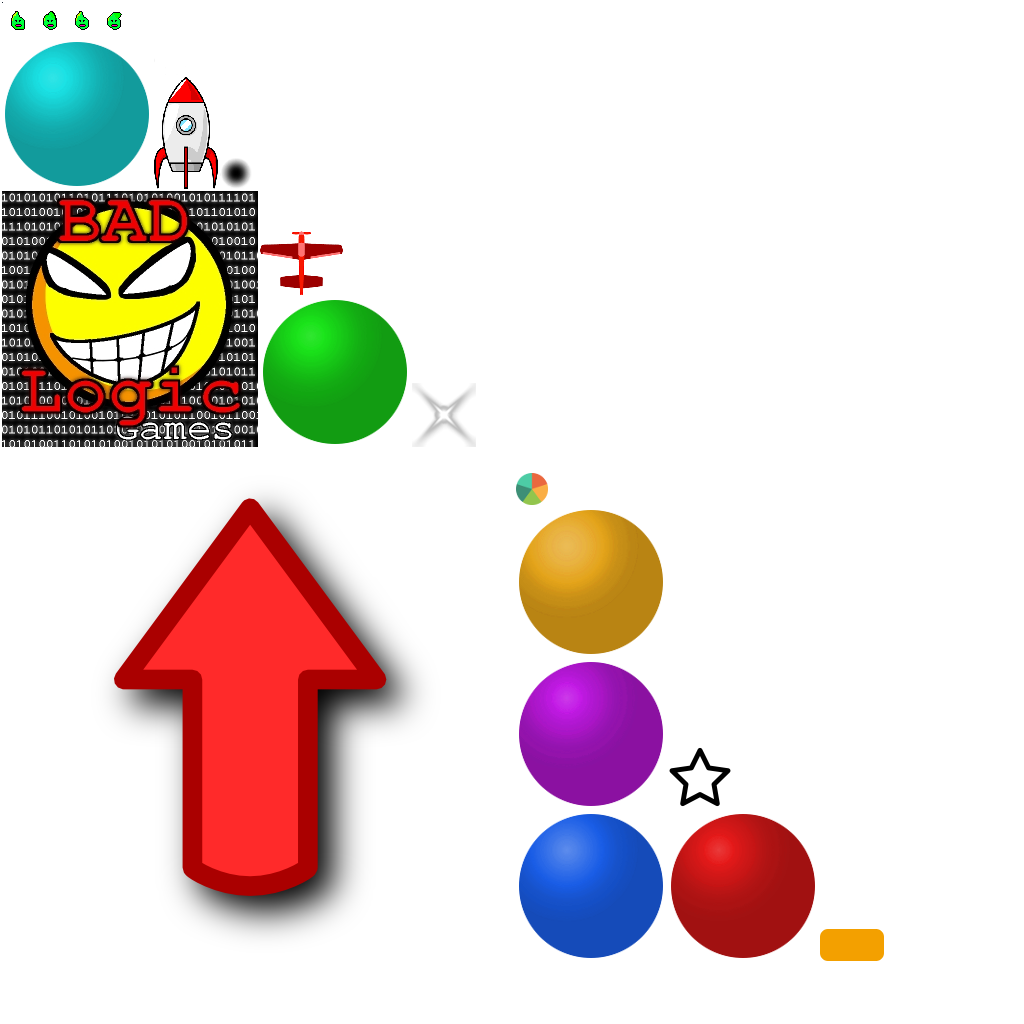
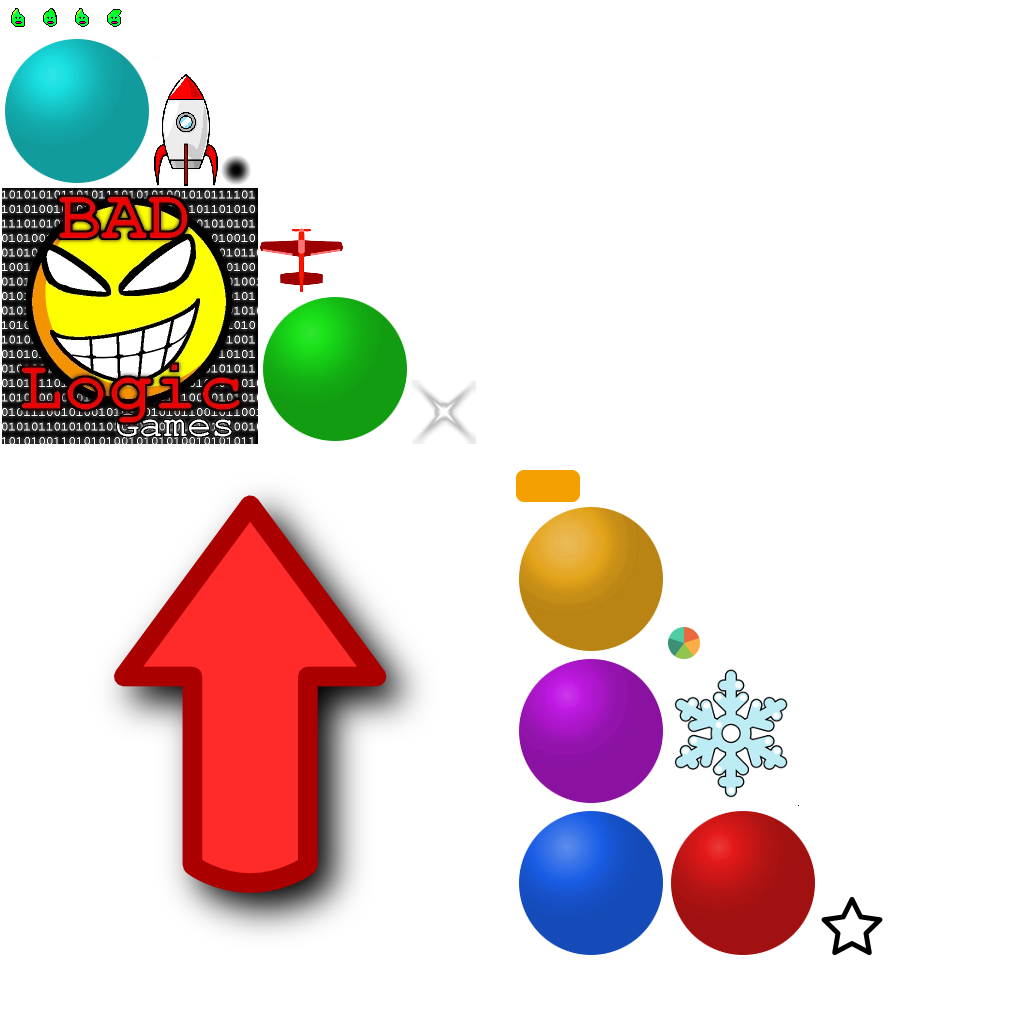
refactor: replaced Star with Snowflake in FallingStarsScreen.java

diff --git a/core/src/com/sid/demogdx/assets/RegionNames.java b/core/src/com/sid/demogdx/assets/RegionNames.java
@@ -8,6 +8,7 @@ public final class RegionNames {
     public static final String HERO = "badlogic";
     public static final String LINE_DOT = "line_dot";
     public static final String STAR = "star";
+    public static final String SNOWFLAKE = "snowflake_clipart";
     public static final String AIRPLANE = "airplane";
     public static final String ROCKET = "rocket";
     public static final String CIRCLE_RAINBOW = "circle_rainbow";

diff --git a/core/src/com/sid/demogdx/screens/FallingStarsScreen.java b/core/src/com/sid/demogdx/screens/FallingStarsScreen.java
@@ -61,7 +61,7 @@ public class FallingStarsScreen extends AbstractBox2dScreen {
 
     @Override
     protected void loadAssets() {
-        starRegion = Assets.inst().getRegion(RegionNames.STAR);
+        starRegion = Assets.inst().getRegion(RegionNames.SNOWFLAKE);
         lineDotRegion = Assets.inst().getRegion(RegionNames.LINE_DOT);
 
         particleEffect = Assets.inst().getParticleEffect(AssetDescriptors.PE_STAR_TRAIL);
